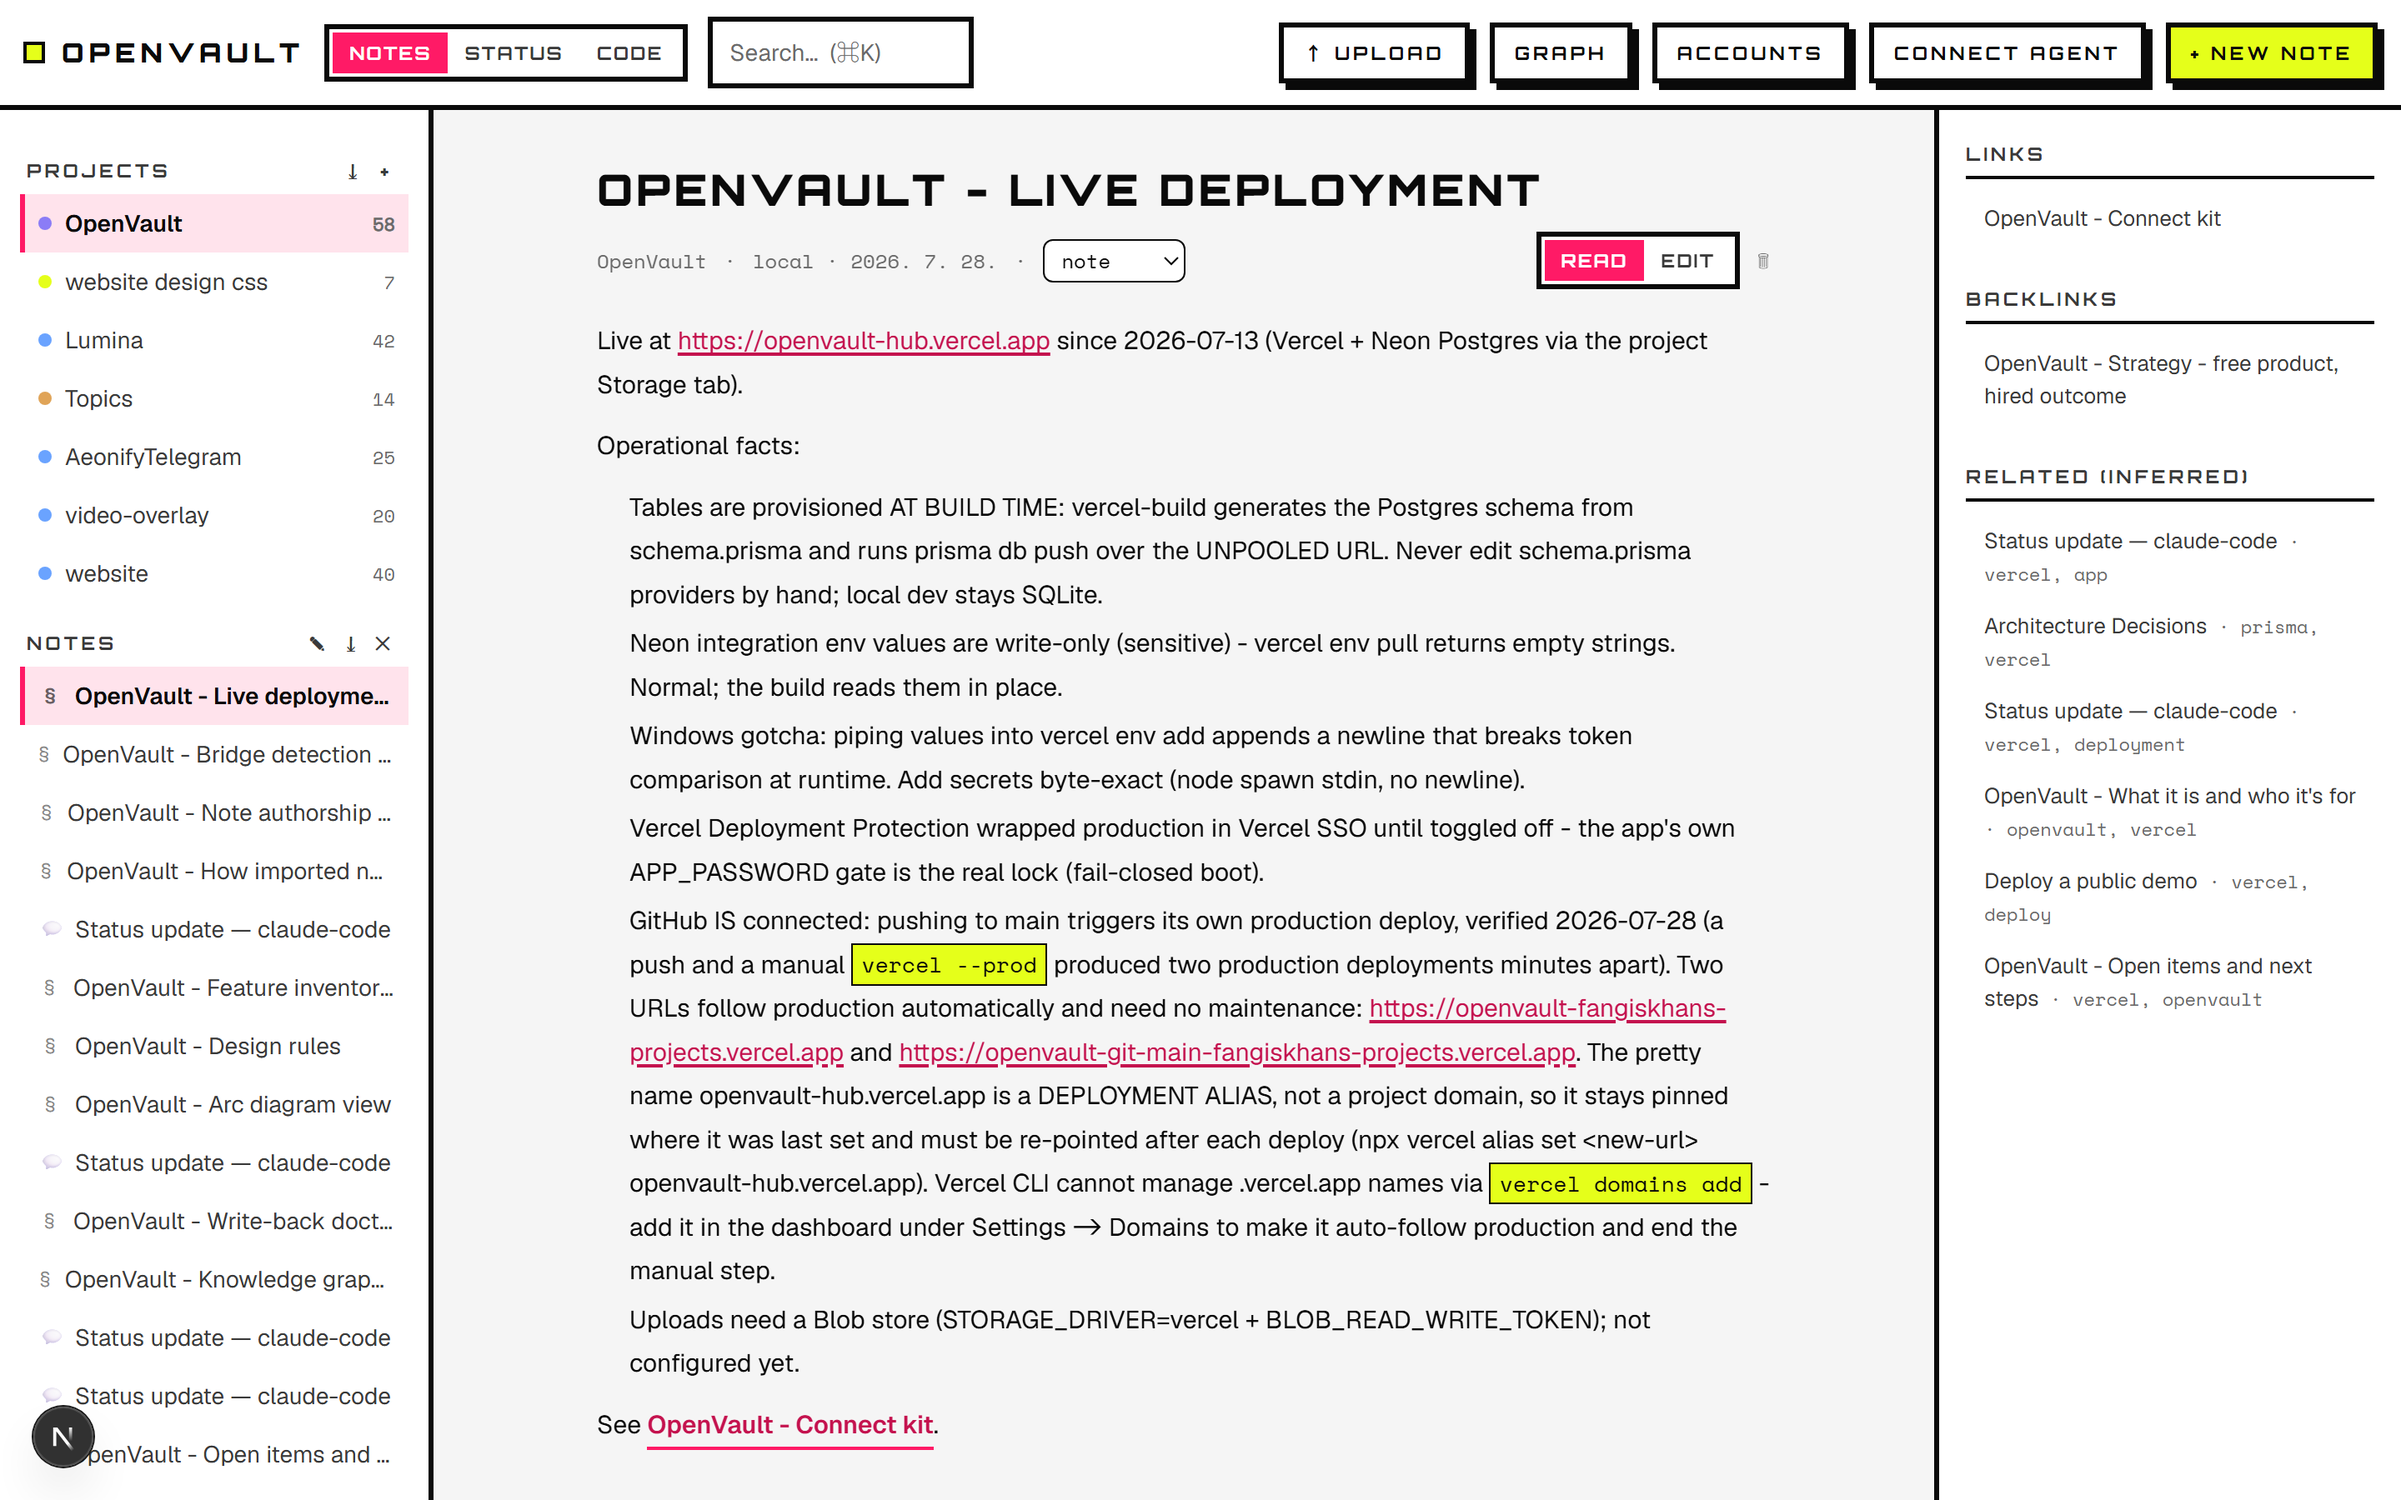
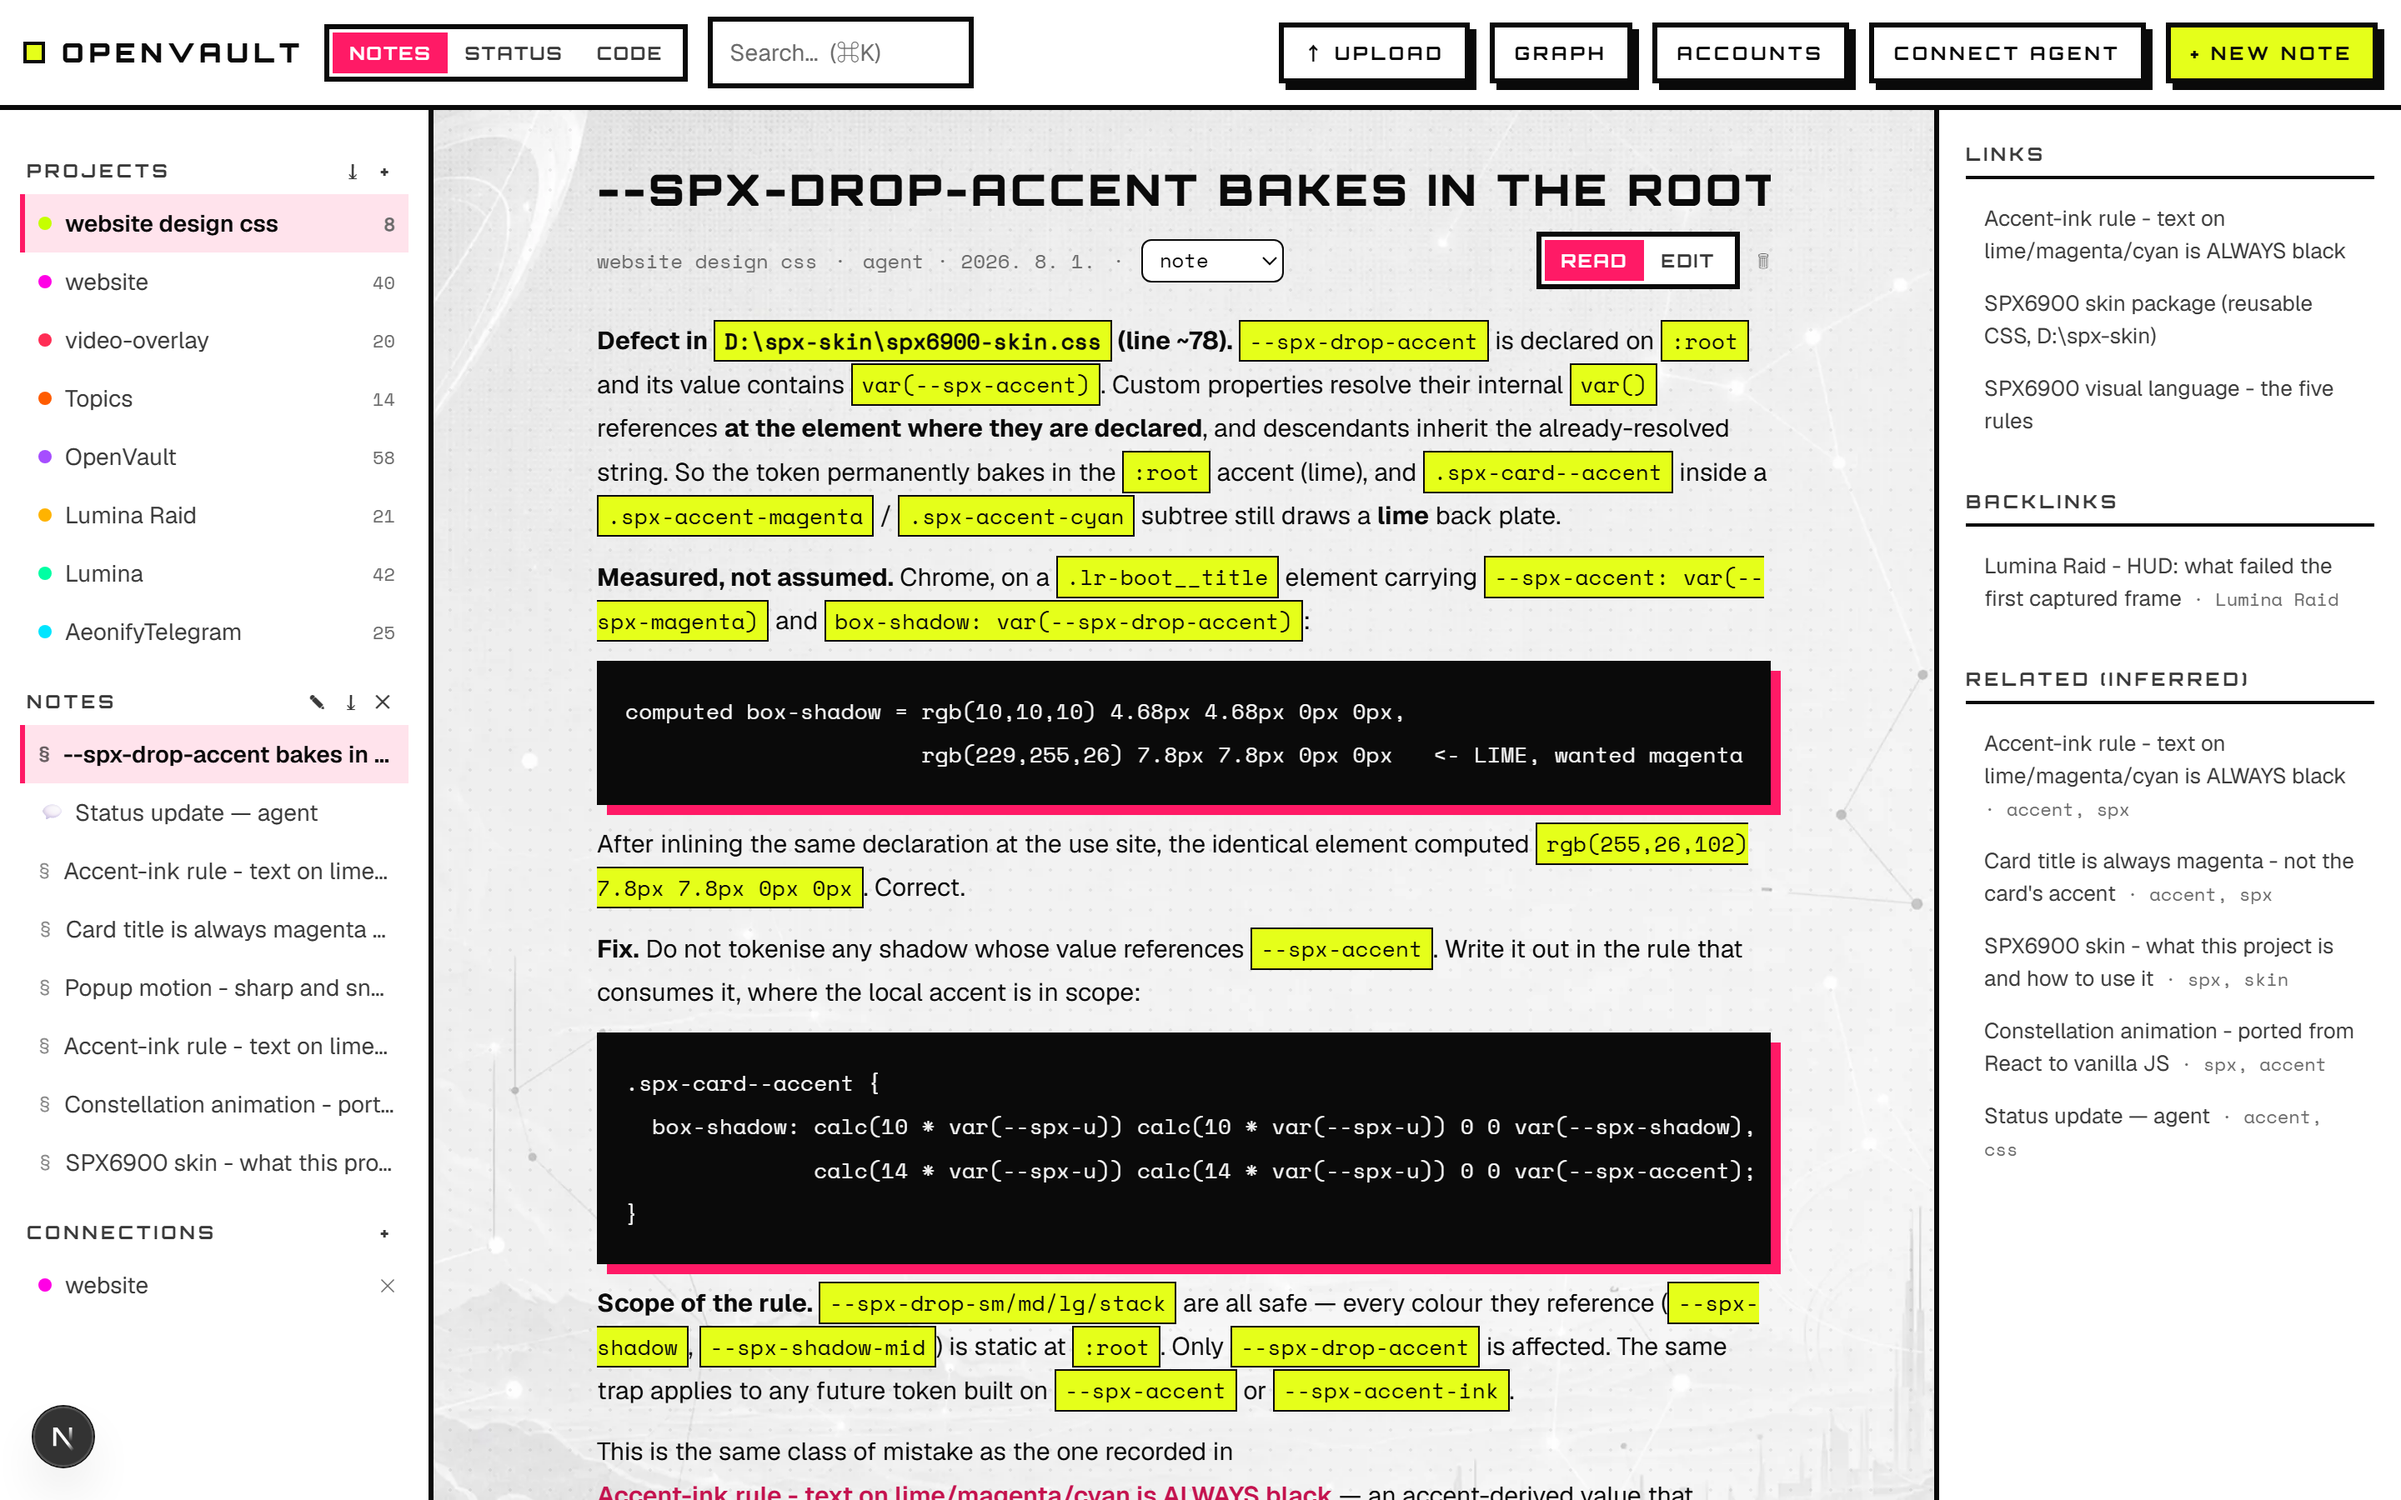
Wallpaper, halftone and a neon palette
Two backgrounds from the website project, so the vault and the site read as one
thing rather than two. Background-05 behind the app; game_box_background as the
plate the arc diagram is drawn on. Both are webp; the 4.3MB png of the plate was
left where it was, since the 73KB webp is the same picture.

The graph plate cannot be a CSS background -- it is a canvas -- so it is painted
as the first thing each frame, cover-fit and centred because the plate is square
and the stage is wide, then knocked back 45% so the arcs stay the brightest
thing on it. Until it decodes the flat ink colour stands in, which is exactly
what the view looked like before.

Halftone over the wallpaper, taken from the vault rather than eyeballed: the
"SPX6900 visual language - the five rules" note in the website design css
project records it as a 1px radial dot at 7% ink on a 12px grid, and that is
what is now layered above Background-05.

The project palette was One Dark-ish -- mid lightness, mid chroma, which the
owner called pastel-but-saturated and which is exactly right. Those colours read
as muted against both the paper UI and the dark plate, and gave the arc view's
additive bloom almost nothing to work with. The palette is now full-chroma and
bright, in the same family as the SPX accents, spaced around the wheel so
neighbours stay tellable apart. The overflow fallback went from 62% saturation
to 100% for the same reason.
[…]

diff --git a/src/app/api/graph/route.ts b/src/app/api/graph/route.ts
@@ -4,12 +4,19 @@ import { scopeProjectIds } from "@/lib/projects";
 import { searchScopeSchema, CONTENT_TYPES } from "@/lib/validation";
 import { buildCorpus, cosine } from "@/lib/related";
 
-// Distinct, dark-theme-friendly hues used to break ties when projects share a
-// stored color (imported projects all default to the same one), so the
-// whole-vault graph can actually be read as "one color per project".
+// Distinct hues used to break ties when projects share a stored color
+// (imported projects all default to the same one), so the whole-vault graph
+// can be read as "one color per project".
+//
+// Neon rather than the previous One Dark-ish set. Those were mid-lightness and
+// mid-chroma — "pastel but saturated" — which reads as muted against both the
+// paper UI and the dark graph plate, and gives the arc view's additive bloom
+// almost nothing to work with. These are full-chroma and bright, in the same
+// family as the SPX accents (#e5ff1a / #ff1a66 / #00e5ff), spaced roughly
+// evenly around the wheel so neighbours stay tellable apart.
 const GRAPH_PALETTE = [
-  "#8b7cf6", "#6aa3ff", "#5fb3a1", "#d08770", "#e0a458", "#c678dd",
-  "#56b6c2", "#e06c9f", "#98c379", "#7aa2f7", "#bb9af7", "#d19a66",
+  "#00e5ff", "#ff1a66", "#c6ff00", "#a64dff", "#ffb300", "#00ffa3",
+  "#ff00e5", "#2b7fff", "#ff5c00", "#66ff33", "#ffe600", "#ff2d55",
 ];
 
 function hashHue(s: string): number {
@@ -104,7 +111,9 @@ export async function GET(req: Request) {
   let next = 0;
   for (const p of deferred) {
     while (next < GRAPH_PALETTE.length && used.has(GRAPH_PALETTE[next])) next++;
-    const color = next < GRAPH_PALETTE.length ? GRAPH_PALETTE[next] : `hsl(${hashHue(p.id)}, 62%, 62%)`;
+    // Past the palette, fall back to a hashed hue — at full chroma, so an
+    // overflow project does not suddenly look washed out next to the rest.
+    const color = next < GRAPH_PALETTE.length ? GRAPH_PALETTE[next] : `hsl(${hashHue(p.id)}, 100%, 60%)`;
     used.add(color);
     colorByProject.set(p.id, color);
   }

diff --git a/src/components/ArcView.tsx b/src/components/ArcView.tsx
@@ -286,6 +286,16 @@ export default function ArcView({
     const gctx = glowBuf.getContext("2d");
     const GS = 0.5; // glow buffer scale; blurring at half res is free softness
 
+    // The plate the arcs are drawn on. A canvas cannot take a CSS background,
+    // so it is painted as the first thing each frame; until it decodes, the
+    // flat ink colour stands in, which is what the view looked like before.
+    const plate = new Image();
+    let plateReady = false;
+    plate.onload = () => {
+      plateReady = true;
+    };
+    plate.src = "/bg/game_box_background.webp";
+
     let raf = 0;
     const paint = (now: number) => {
       raf = requestAnimationFrame(paint);
@@ -293,8 +303,22 @@ export default function ArcView({
       if (!ctx || !canvas) return;
       ctx.globalCompositeOperation = "source-over";
       ctx.filter = "none";
+      const cw = sc?.W ?? canvas.width;
+      const ch = sc?.H ?? canvas.height;
       ctx.fillStyle = "#070709";
-      ctx.fillRect(0, 0, sc?.W ?? canvas.width, sc?.H ?? canvas.height);
+      ctx.fillRect(0, 0, cw, ch);
+      if (plateReady) {
+        // Cover-fit and centre: the plate is square and the stage is wide, so
+        // scaling to fit would letterbox it against the ink.
+        const s = Math.max(cw / plate.width, ch / plate.height);
+        const dw = plate.width * s;
+        const dh = plate.height * s;
+        ctx.drawImage(plate, (cw - dw) / 2, (ch - dh) / 2, dw, dh);
+        // Knock it back so the arcs stay the brightest thing on the stage —
+        // it is scenery, and additive glow over a busy plate loses contrast.
+        ctx.fillStyle = "rgba(7,7,9,0.45)";
+        ctx.fillRect(0, 0, cw, ch);
+      }
       if (!sc) return;
 
       const focus = hoverIdRef.current;

diff --git a/src/app/globals.css b/src/app/globals.css
@@ -43,7 +43,19 @@ body {
 }
 body {
   margin: 0;
-  background: var(--bg);
+  /* Background-05 under the SPX halftone, so the vault and the website read as
+     one product. Layer order is top-first in CSS: dots over skyline over paper.
+     `fixed` on both so neither slides under scrolling content, and the paper
+     colour stays underneath as the fallback while the image loads.
+
+     The halftone is the site's own supporting texture, copied exactly rather
+     than eyeballed — radial dot, 7% ink, 1px, on a 12px grid. Recorded in
+     "SPX6900 visual language - the five rules" in the website design css
+     project. */
+  background:
+    radial-gradient(circle, rgba(10, 10, 10, 0.07) 1px, transparent 1px) 0 0 / 12px 12px repeat fixed,
+    url("/bg/Background-05.webp") center / cover no-repeat fixed,
+    var(--bg);
   color: var(--text);
   font-family: var(--font-geist-sans, ui-sans-serif, system-ui, sans-serif);
   font-size: 14px;
